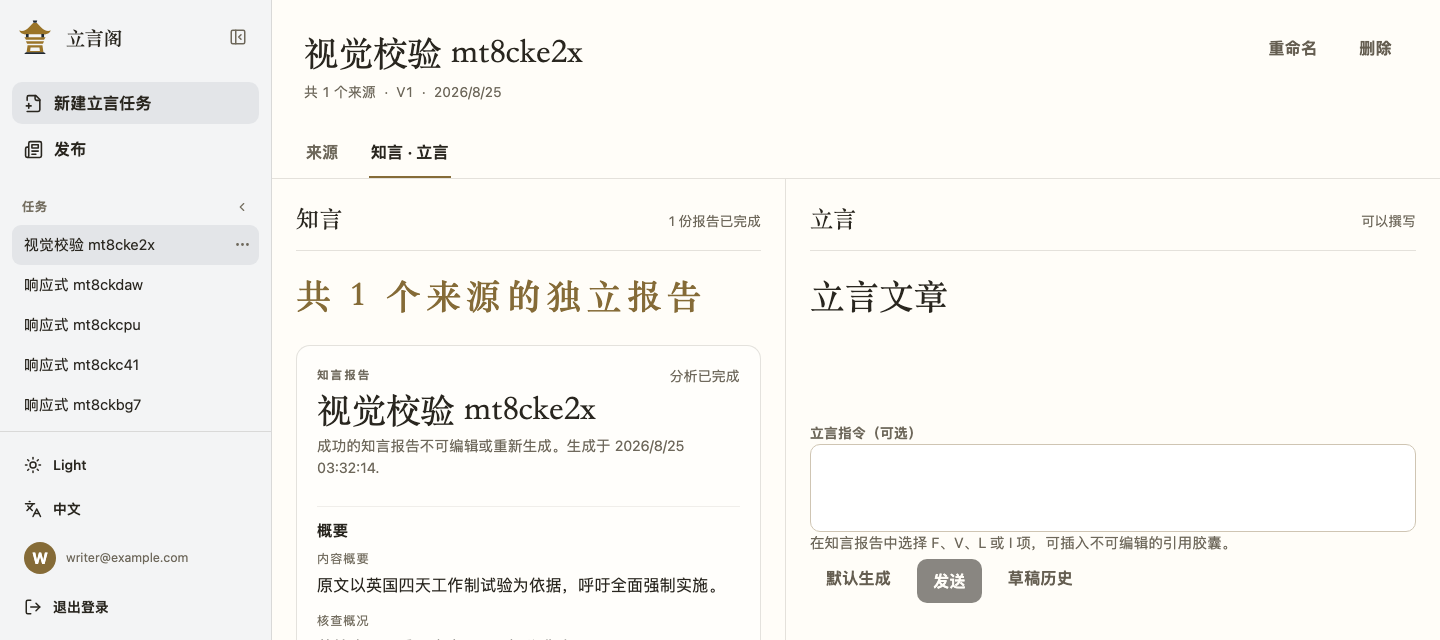
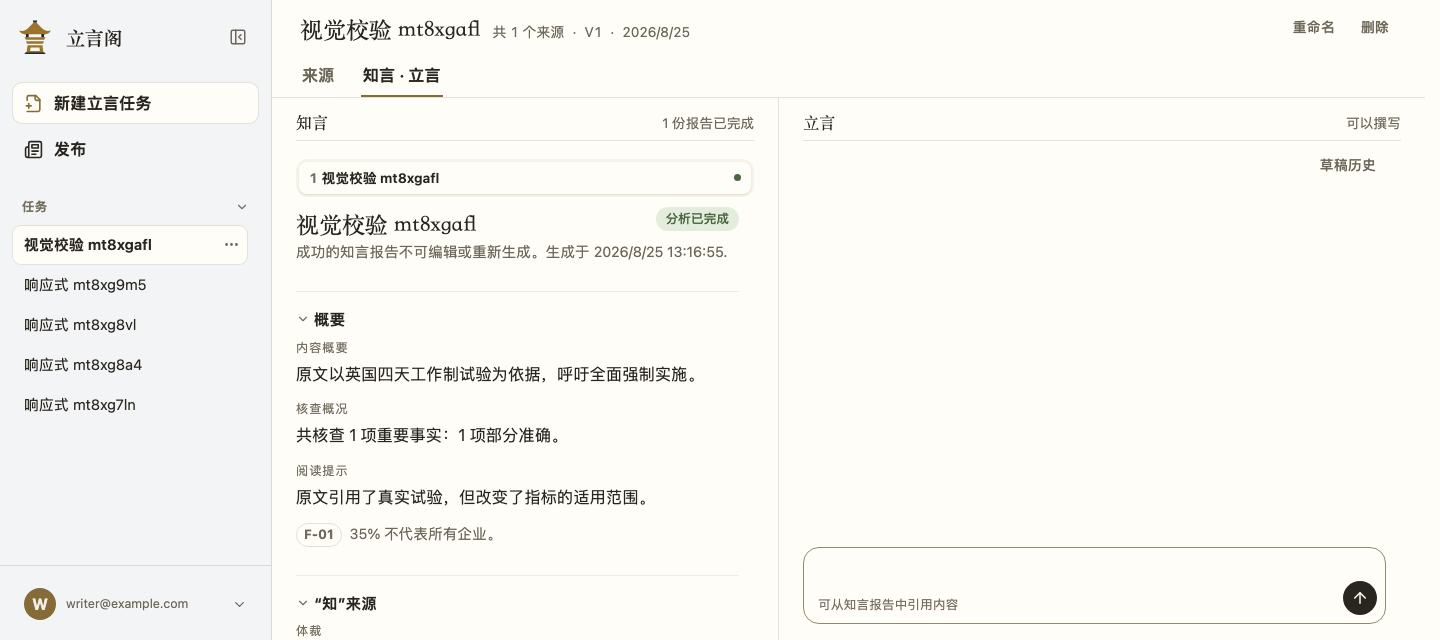
Ask the browser suite in the page, as the guard now does
The dirty-navigation guard stopped using window.confirm, so the spec was
accepting a native dialog that no longer appears — leaving the writer
where they were and the URL unchanged. It answers the in-page dialog
instead: 取消 to stay, 仍要离开 to go.

The whole browser suite passes locally: 14 passed, 1 skipped, which is
the URL-source test that wants a network the local run substitutes.

diff --git a/apps/web/e2e/workflow.spec.ts b/apps/web/e2e/workflow.spec.ts
@@ -40,13 +40,17 @@ test("browser history cannot discard an unfinished source without confirmation",
   await page.getByRole("button", { name: "添加来源" }).click();
   await page.getByLabel("来源标题").fill("尚未保存的来源");
 
-  page.once("dialog", (dialog) => dialog.dismiss());
+  // The question is asked in the page, not by the browser: a native confirm()
+  // can be suppressed, and a suppressed one answers "stay here" on the writer's
+  // behalf — silently trapping them on the page they are trying to leave.
   await page.goBack();
+  await expect(page.getByRole("alertdialog")).toContainText("离开这里？");
+  await page.getByRole("button", { name: "取消" }).click();
   await expect(page).toHaveURL(/\/task$/);
   await expect(page.getByLabel("来源标题")).toHaveValue("尚未保存的来源");
 
-  page.once("dialog", (dialog) => dialog.accept());
   await page.goBack();
+  await page.getByRole("alertdialog").getByRole("button", { name: "仍要离开" }).click();
   await expect(page).toHaveURL(/\/publications$/);
 });
 
